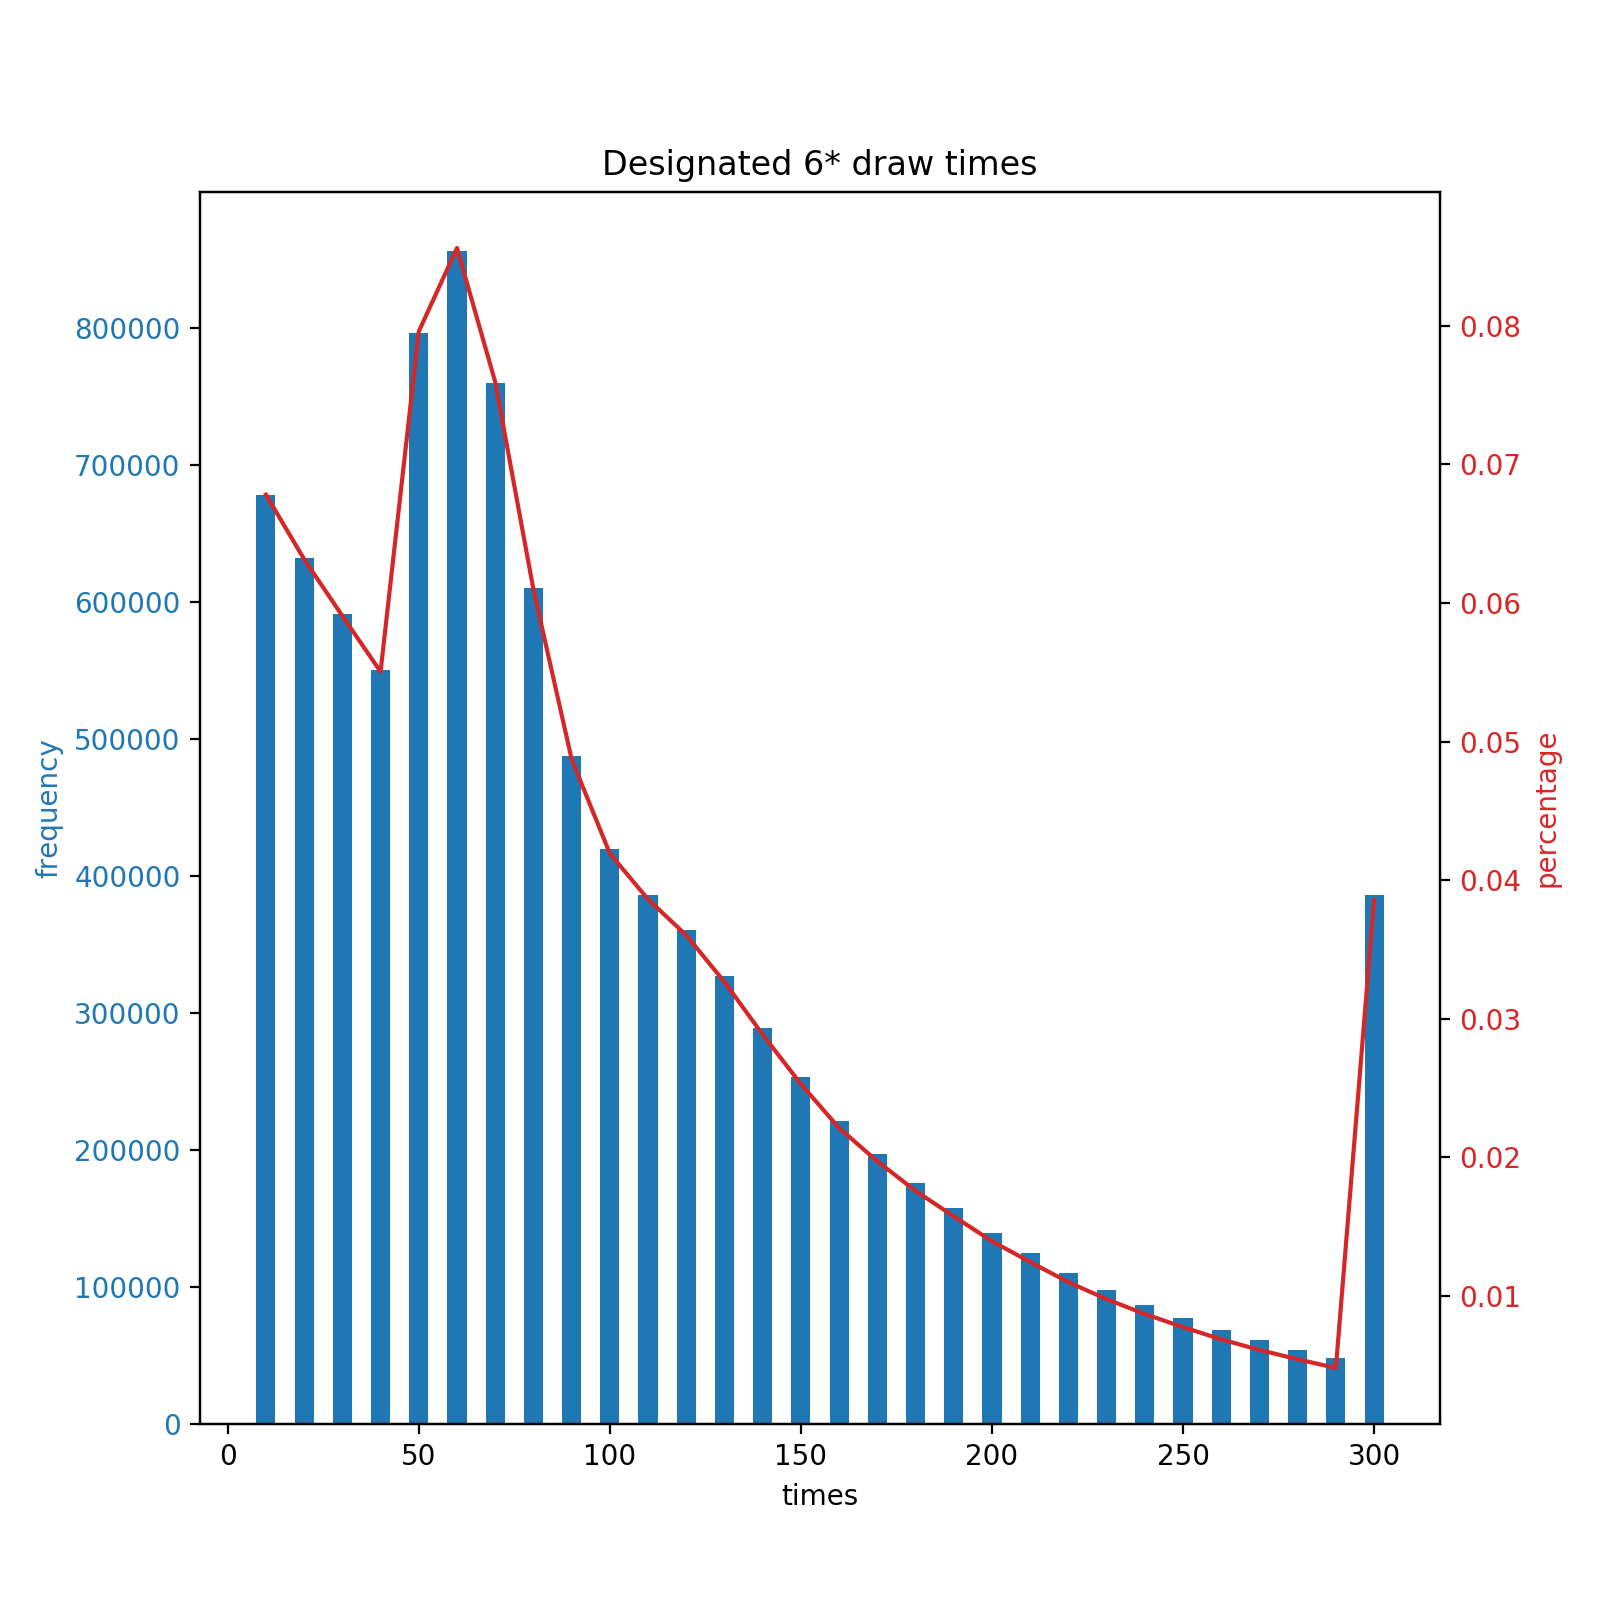
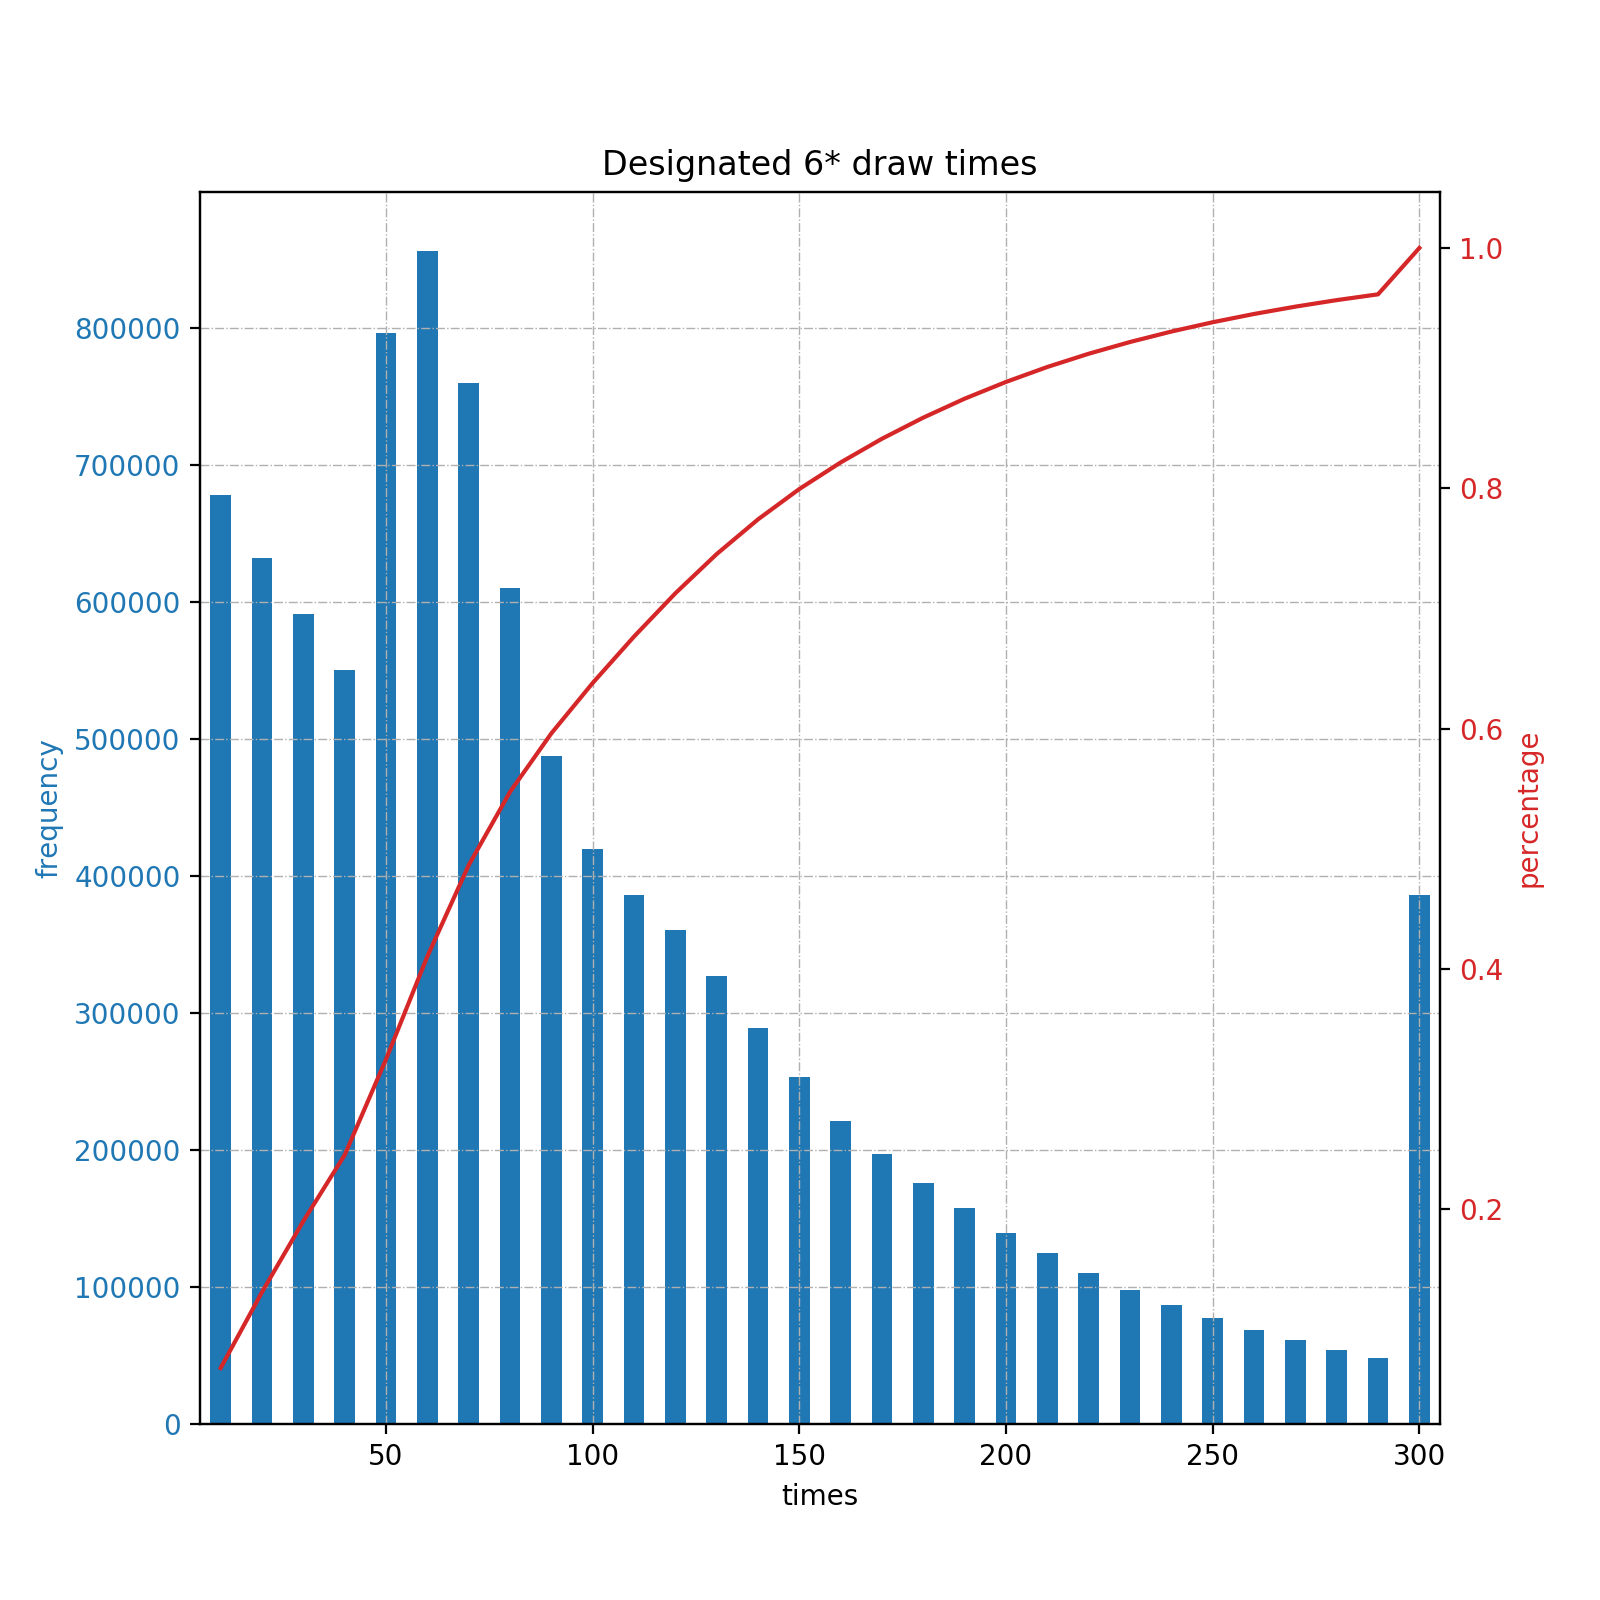
Modify image's style.

diff --git a/main.py b/main.py
@@ -76,21 +76,27 @@ if __name__ == "__main__":
 	draw_times = sorted(draw_times)
 	performance = [d[x] for x in draw_times]
 	ratios = []
+	ratios2 = []
 	for i in draw_times:
 		ratios.append(d[i] / s)
+	for i in range(len(ratios)):
+		ratios2 += [sum(ratios[0:i+1])]
 	
 	fig, ax1 = plt.subplots(figsize=(8, 8))
-	color = "tab:blue"
+	plt.grid(ls="-.", lw=0.5)
+	colorb = "tab:blue"
+	colorr = "tab:red"
+	
 	ax1.bar(draw_times, performance, align="center", width=5)
-	ax1.tick_params(axis="y", labelcolor=color)
-	ax1.set_ylabel("frequency", color=color)
+	ax1.tick_params(axis="y", labelcolor=colorb)
+	ax1.set_ylabel("frequency", color=colorb)
 	ax1.set_xlabel("times")
 	
 	ax2 = plt.twinx()
-	color = "tab:red"
-	ax2.set_ylabel("percentage", color=color)
-	ax2.tick_params(axis='y', labelcolor="tab:red")
-	ax2.plot(draw_times, ratios, color=color)
+	ax2.set_ylabel("percentage", color=colorr)
+	ax2.tick_params(axis='y', labelcolor=colorr)
+	ax2.plot(draw_times, ratios2, color=colorr)
 
+	plt.xlim(5, 305)
 	plt.title("Designated 6* draw times")
 	fig.savefig("result.png", dpi=200)
